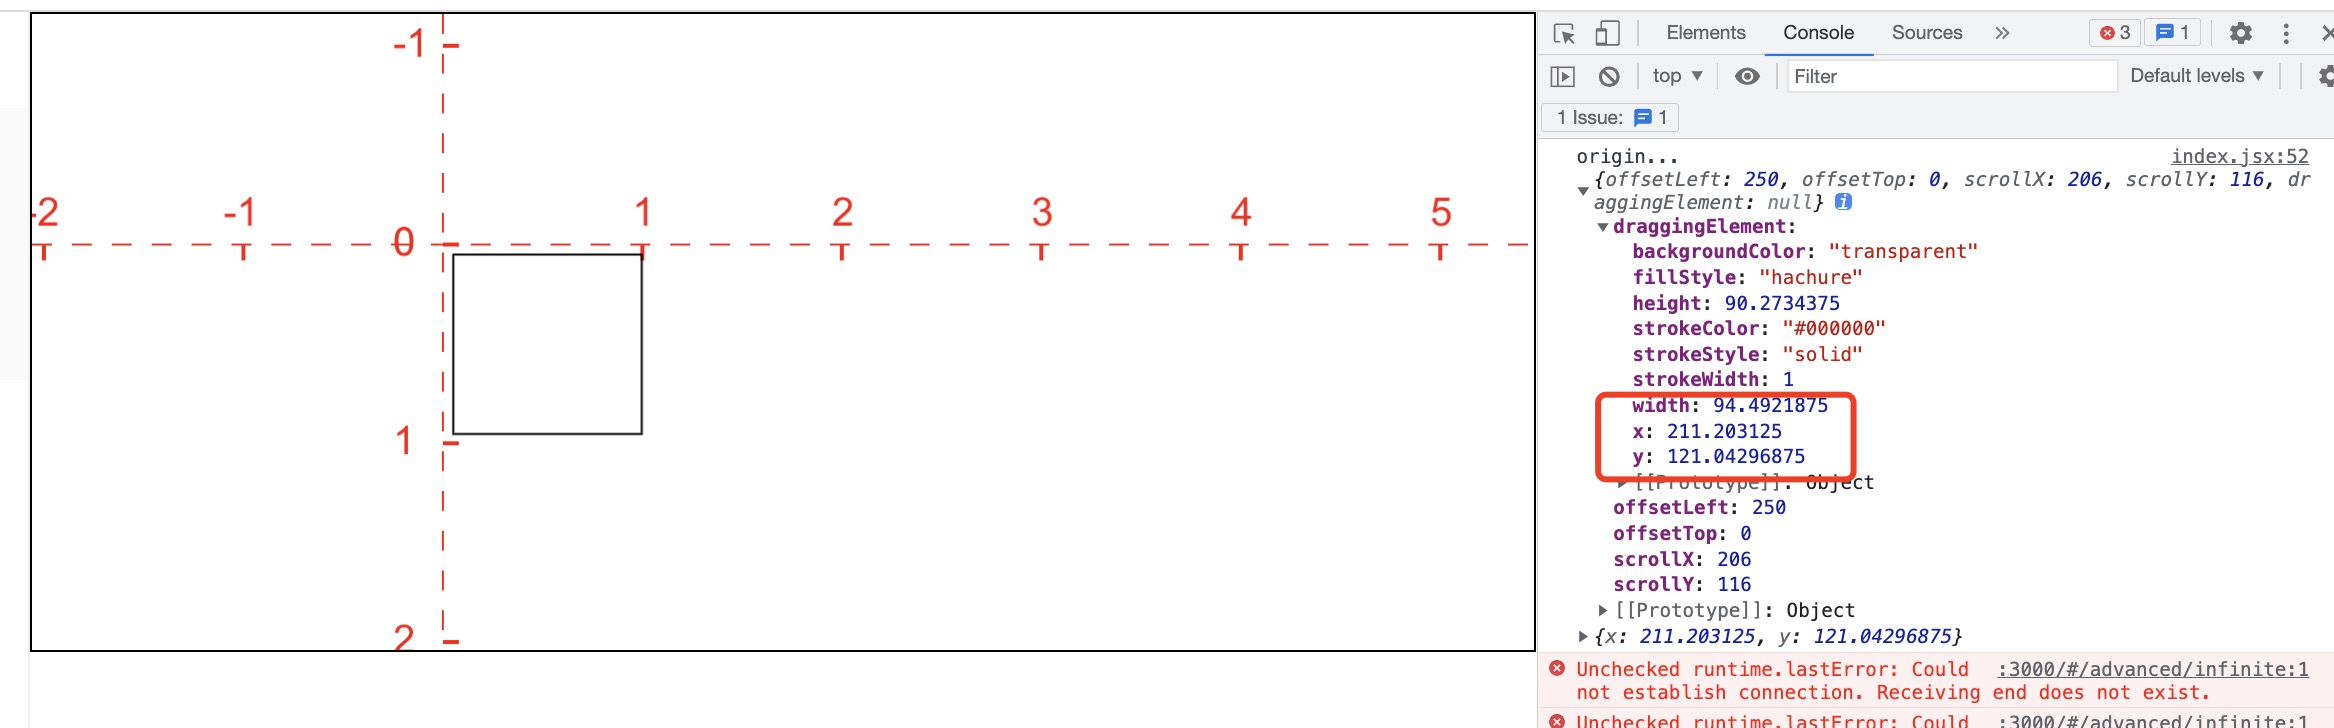
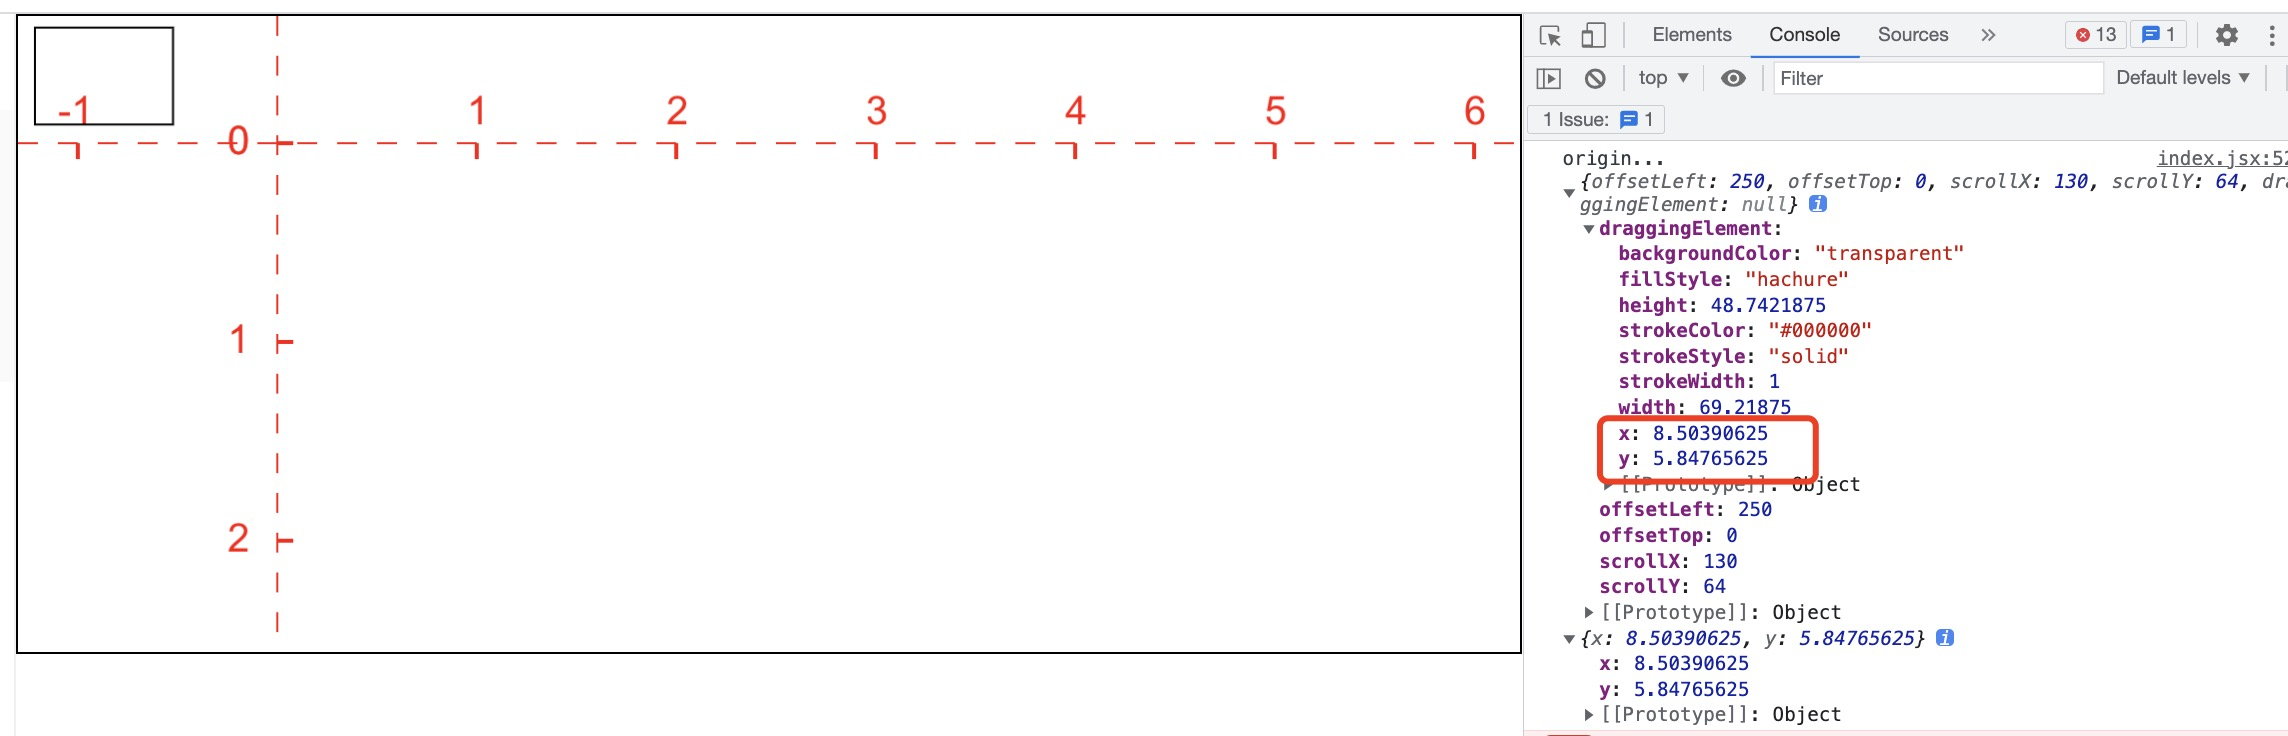
feat: 无限画布

diff --git a/src/pages/infinite-canvas/index.jsx b/src/pages/infinite-canvas/index.jsx
@@ -111,15 +111,59 @@ const Canvas = memo(() => {
     renderScene(canvasRef.current, appState);
   };
   return (
-    <div ref={canvasContainer}>
-      <canvas
-        ref={canvasRef}
-        className="canvas"
-        onPointerDown={handleCanvasPointerDown}
-        onWheel={handleCanvasWheel}
-      >
-        绘制canvas
-      </canvas>
+    <div>
+      <div ref={canvasContainer}>
+        <canvas
+          ref={canvasRef}
+          className="canvas"
+          onPointerDown={handleCanvasPointerDown}
+          onWheel={handleCanvasWheel}
+        >
+          绘制canvas
+        </canvas>
+      </div>
+      <div>
+        <button
+          onClick={() => {
+            let minX = Infinity;
+            let maxX = -Infinity;
+            let minY = Infinity;
+            let maxY = -Infinity;
+
+            elements.forEach((element) => {
+              const [x1, y1, x2, y2] = [
+                element.x,
+                element.y,
+                element.x + element.width,
+                element.y + element.height,
+              ];
+              minX = Math.min(minX, x1);
+              minY = Math.min(minY, y1);
+              maxX = Math.max(maxX, x2);
+              maxY = Math.max(maxY, y2);
+            });
+
+            const canvas = document.createElement("canvas");
+            canvas.width = (maxX - minX + 20) * window.devicePixelRatio;
+            canvas.height = (maxY - minY + 20) * window.devicePixelRatio;
+            const context = canvas.getContext('2d')
+            context.scale(window.devicePixelRatio, window.devicePixelRatio)
+            renderScene(canvas, {
+              ...appState,
+              scrollX: -minX + 10,
+              scrollY: -minY + 10,
+            });
+            console.log('导出', elements);
+            var a = document.createElement("a");
+            a.href = canvas.toDataURL();
+            a.download = "canvas.png";
+            a.click();
+          }}
+        >
+          导出PNG
+        </button>
+      </div>
+      <div className="tip">温馨提示：可以在上面的画板中绘制矩形哦！！</div>
       <MarkDown src={doc} />
     </div>
   );

diff --git a/src/menus.jsx b/src/menus.jsx
@@ -14,7 +14,7 @@ const MENUS = [
         key: "/base/style",
       },
       {
-        label: <NavLink to="/base/size">彻底搞懂canvas尺寸</NavLink>,
+        label: <NavLink to="/base/size">canvas尺寸及分辨率矫正</NavLink>,
         key: "/base/size",
       },
     ],

diff --git a/src/pages/infinite-canvas/index.less b/src/pages/infinite-canvas/index.less
@@ -4,3 +4,7 @@
     box-sizing: border-box;
     border: 1px solid black;
 }
+.tip {
+    margin: 20px 0 0 20px;
+    color: red;
+}

diff --git a/doc/canvas进阶/绘制矩形及无限画布.md b/doc/canvas进阶/绘制矩形及无限画布.md
@@ -337,6 +337,95 @@ const drawAxis = (ctx, { scrollX, scrollY }) => {
 
 ![image](../../excalidraw-app/infinite-05.jpg)
 
-可以看出坐标轴的绘制和滚动距离完全对应的上。我们已经能够实现一个无限画布并且正确绘制坐标轴，但此时如果我们在上面绘制一个矩形就会发现，矩形的宽度和高度是正确的，但是矩形的原点（左上角的起点）即 x 和 y 并不对
+可以看出坐标轴的绘制和滚动距离完全对应的上。我们已经能够实现一个无限画布并且正确绘制坐标轴，但此时如果我们在上面绘制一个矩形就会发现，矩形的宽度和高度是正确的，同时矩形的原点，即 x，y 也是正确的，但是矩形绘制的位置并不对。这是因为我们这里矩形的位置是相对于移动后的坐标系。
 
 ![image](../../excalidraw-app/infinite-06.jpg)
+
+因此我们需要修改我们的 renderElement 方法
+
+```js
+const renderElements = (ctx, appState) => {
+  elements.forEach((ele) => {
+    ctx.save();
+    ctx.translate(ele.x + appState.scrollX, ele.y + appState.scrollY);
+    ctx.strokeStyle = ele.strokeStyle;
+    ctx.strokeColor = ele.strokeColor;
+    ctx.strokeRect(0, 0, ele.width, ele.height);
+    ctx.restore();
+  });
+};
+```
+
+修改后，我们就可以正常绘制矩形了
+
+![image](../../excalidraw-app/infinite-07.jpg)
+
+至此，我们就可以实现 canvas 无限画布，并能够在上面绘制矩形。
+
+## 导出
+
+现在，我们希望能够将我们的画布导出成 png 图片。很快，我们就可以实现下面的代码：
+
+```jsx
+<button
+  onClick={() => {
+    const canvas = canvasRef.current;
+    var a = document.createElement("a");
+    a.href = canvas.toDataURL();
+    a.download = "canvas.png";
+    a.click();
+  }}
+>
+  导出PNG
+</button>
+```
+
+但是我们导出的时候会发现只能导出视图内的图形，视图以外的图形(即画面中看不到的图形)无法导出，这显然不符合我们的需求
+
+![image](../../excalidraw-app/infinite-08.png)
+
+我们需要计算`elements`中最小的 minX 和 minY，以及最大的 maxX 和 maxY，并重新创建一个画布绘制，然后在这个新的画布上绘制我们的图形，修改导出代码
+
+```js
+<button
+  onClick={() => {
+    let minX = Infinity;
+    let maxX = -Infinity;
+    let minY = Infinity;
+    let maxY = -Infinity;
+
+    elements.forEach((element) => {
+      const [x1, y1, x2, y2] = [
+        element.x,
+        element.y,
+        element.x + element.width,
+        element.y + element.height,
+      ];
+      minX = Math.min(minX, x1);
+      minY = Math.min(minY, y1);
+      maxX = Math.max(maxX, x2);
+      maxY = Math.max(maxY, y2);
+    });
+
+    const canvas = document.createElement("canvas");
+    canvas.width = (maxX - minX + 20) * window.devicePixelRatio;
+    canvas.height = (maxY - minY + 20) * window.devicePixelRatio;
+    const context = canvas.getContext("2d");
+    context.scale(window.devicePixelRatio, window.devicePixelRatio);
+    renderScene(canvas, {
+      ...appState,
+      scrollX: -minX + 10,
+      scrollY: -minY + 10,
+    });
+    console.log("导出", elements);
+    var a = document.createElement("a");
+    a.href = canvas.toDataURL();
+    a.download = "canvas.png";
+    a.click();
+  }}
+>
+  导出PNG
+</button>
+```
+
+可以看到，现在一切正常
